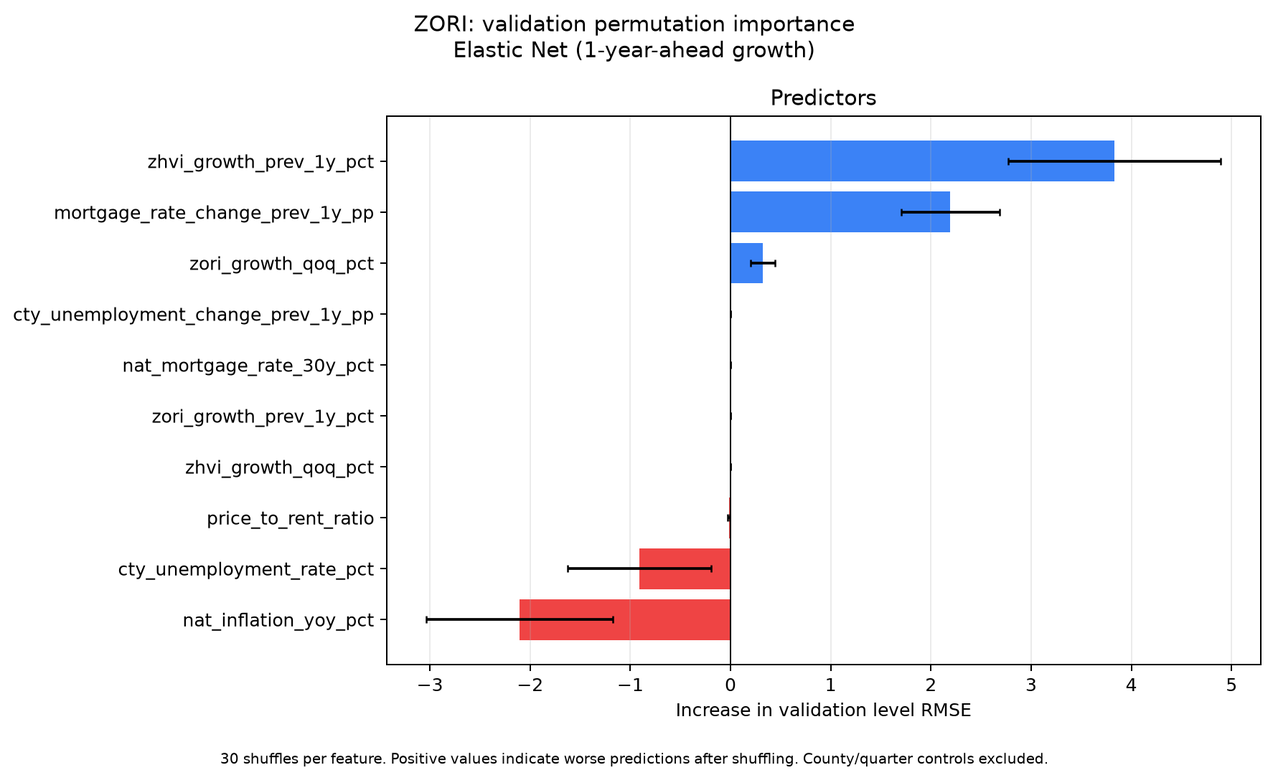
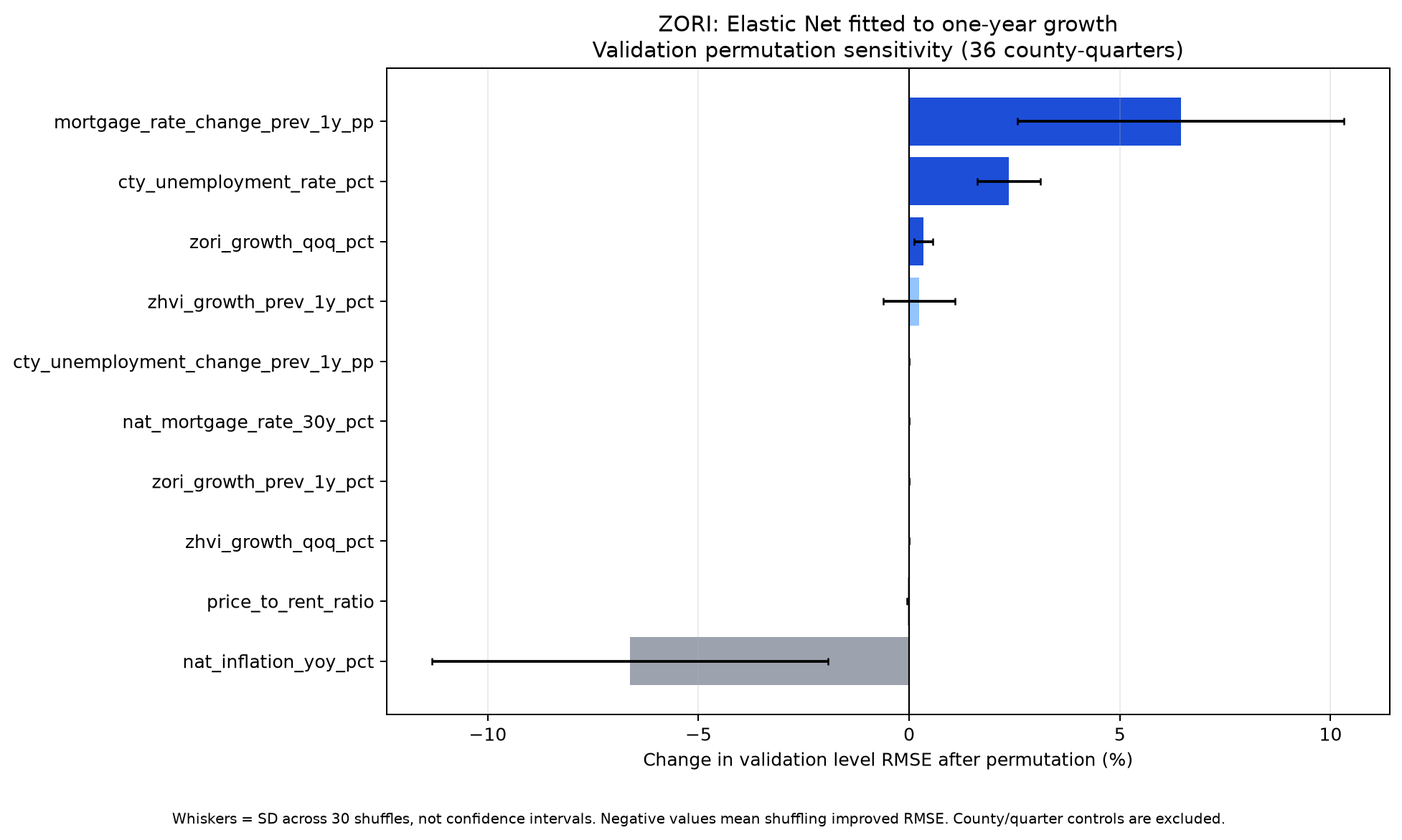
Clarify growth-target model selection and improve comparison figures

diff --git a/src/model_comparison_analysis.py b/src/model_comparison_analysis.py
@@ -2,8 +2,9 @@
 
 Run this file from the repository's ``notebooks`` directory (or run the
 companion notebook). Outputs are written to results/checkpoint3_model_compare.
-The final test period is used only after model specifications are selected on
-the 2021 validation period.
+Model specifications are selected on the 2021 validation period. The explicit
+growth-only eligibility rule was documented after earlier test results were
+seen, so the existing test scores are descriptive for that revised rule.
 """
 
 from pathlib import Path
@@ -92,6 +93,13 @@ MODEL_ORDER = [
     "Ordinary Linear Regression", "LASSO", "Elastic Net", "Ridge", "XGBoost",
     "ARIMA", "ARIMAX",
 ]
+
+# The project's forecasting question is about one-year growth. Direct-level
+# fits remain diagnostic comparisons, but only growth-fitted pooled models
+# are eligible for the tentative model choice. Because this policy was
+# formalized after inspecting the prior comparison, treat test scores as
+# descriptive rather than a pristine evaluation of the revised selection rule.
+ELIGIBLE_FIT_TARGET = GROWTH_FIT
 
 REGRESSION_CANDIDATES = {
     "Ordinary Linear Regression": [LinearRegression()],
@@ -450,18 +458,49 @@ validation_chosen = validation_comparison.sort_values(["RMSE", "MAE"]).drop_dupl
 )
 validation_chosen.to_csv(RESULTS_DIR / "validation_model_comparison.csv", index=False)
 
-# Best model per target and metric is shown separately. RMSE is the predeclared
-# primary selection metric; MAE and R² are comparative diagnostics.
+# Keep unrestricted winners as a diagnostic. The published tentative choice is
+# selected among models fitted to the actual project target: one-year growth.
 winner_rows = []
+all_candidate_winner_rows = []
 for target_name in TARGETS:
-    subset = validation_chosen[validation_chosen["target"].eq(target_name)].copy()
+    all_candidates = validation_chosen[validation_chosen["target"].eq(target_name)]
+    eligible = all_candidates[all_candidates["fit_target"].eq(ELIGIBLE_FIT_TARGET)]
     for metric, direction in [("RMSE", "min"), ("MAE", "min"), ("R2", "max")]:
-        selected = subset.sort_values(metric, ascending=(direction == "min")).iloc[0]
-        winner_rows.append({"target": target_name, "metric": metric,
-                            "winning_model": selected["model"], "fit_target": selected["fit_target"],
-                            "quarter_terms": selected["quarter_terms"], "value": selected[metric]})
+        for subset, output in [(eligible, winner_rows), (all_candidates, all_candidate_winner_rows)]:
+            selected = subset.sort_values(metric, ascending=(direction == "min")).iloc[0]
+            output.append({"target": target_name, "metric": metric,
+                           "winning_model": selected["model"], "fit_target": selected["fit_target"],
+                           "quarter_terms": selected["quarter_terms"], "value": selected[metric]})
 best_by_metric = pd.DataFrame(winner_rows)
 best_by_metric.to_csv(RESULTS_DIR / "validation_metric_winners.csv", index=False)
+pd.DataFrame(all_candidate_winner_rows).to_csv(
+    RESULTS_DIR / "validation_metric_winners_all_candidates.csv", index=False
+)
+
+# Paired within-family comparison prevents a cross-family average from hiding
+# the ZHVI exception, where some direct-level fits win in validation.
+paired_rows = []
+for target_name in TARGETS:
+    for family in ["Mean baseline"] + PREDICTOR_MODELS:
+        growth_name = display_name(family, GROWTH_FIT)
+        level_name = display_name(family, LEVEL_FIT)
+        growth = validation_chosen[
+            validation_chosen["target"].eq(target_name)
+            & validation_chosen["model"].eq(growth_name)
+            & validation_chosen["fit_target"].eq(GROWTH_FIT)
+        ].iloc[0]
+        level = validation_chosen[
+            validation_chosen["target"].eq(target_name)
+            & validation_chosen["model"].eq(level_name)
+            & validation_chosen["fit_target"].eq(LEVEL_FIT)
+        ].iloc[0]
+        paired_rows.append({
+            "target": target_name, "family": family,
+            "growth_fit_validation_RMSE": growth["RMSE"],
+            "level_fit_validation_RMSE": level["RMSE"],
+            "lower_validation_RMSE": "Growth fit" if growth["RMSE"] < level["RMSE"] else "Level fit",
+        })
+pd.DataFrame(paired_rows).to_csv(RESULTS_DIR / "fit_target_paired_validation_comparison.csv", index=False)
 
 
 # -----------------------------------------------------------------------------
@@ -642,23 +681,61 @@ metric_specs = [
     ("R2", "Validation R² (higher is better)", "validation_r2_model_comparison.png"),
 ]
 for metric, ylabel, filename in metric_specs:
-    fig, axes = plt.subplots(1, 2, figsize=(21, 7), sharey=False)
+    # Stack targets vertically: their native units and scales differ greatly.
+    fig, axes = plt.subplots(2, 1, figsize=(19, 14), sharex=False, sharey=False)
     for ax, target_name in zip(axes, TARGETS):
         rows = validation_chosen[validation_chosen["target"].eq(target_name)].copy()
         rows["order"] = rows["model"].map({name: i for i, name in enumerate(MODEL_ORDER)})
         rows = rows.sort_values(["order", "fit_target"])
         labels = rows["chart_label"].tolist()
-        color_map = plt.cm.tab20(np.linspace(0, 1, max(1, len(rows))))
-        ax.bar(np.arange(len(rows)), rows[metric], color=color_map)
-        ax.set_xticks(np.arange(len(rows)), labels, rotation=65, ha="right", fontsize=8)
-        ax.set_title(target_name)
-        ax.set_ylabel(ylabel)
+        selected = best_by_metric[
+            best_by_metric["target"].eq(target_name)
+            & best_by_metric["metric"].eq(metric)
+        ].iloc[0]
+        is_winner = (
+            rows["model"].eq(selected["winning_model"])
+            & rows["fit_target"].eq(selected["fit_target"])
+        ).to_numpy()
+        colors = [
+            "#d97706" if winner else
+            "#5b8fb9" if fit == GROWTH_FIT else
+            "#a9b7c6" if model in ["ARIMA", "ARIMAX"] else "#d3dce5"
+            for winner, fit, model in zip(is_winner, rows["fit_target"], rows["model"])
+        ]
+        bars = ax.bar(np.arange(len(rows)), rows[metric], color=colors,
+                      edgecolor=["#78350f" if winner else "none" for winner in is_winner],
+                      linewidth=1.5)
+        values = [f"{value:,.3f}" if metric == "R2" else f"{value:,.0f}" if target_name == "ZHVI"
+                  else f"{value:,.1f}" for value in rows[metric]]
+        annotations = ax.bar_label(bars, labels=values, padding=3, rotation=90, fontsize=7)
+        for label, winner, bar, value_text in zip(annotations, is_winner, bars, values):
+            if bar.get_height() < 0:
+                # The top of a negative bar is the zero line. Put its value
+                # above that line, as with the positive bars.
+                label.set_text("")
+                ax.annotate(value_text,
+                            (bar.get_x() + bar.get_width() / 2, 0),
+                            xytext=(0, 4), textcoords="offset points",
+                            ha="center", va="bottom", rotation=90, fontsize=7)
+            if winner:
+                label.set_fontweight("bold")
+                ax.text(bar.get_x() + bar.get_width() / 2, bar.get_height() * 0.6,
+                        "*", ha="center", va="center", color="white",
+                        fontsize=20, fontweight="bold")
+        ax.set_xticks(np.arange(len(rows)), labels, rotation=55, ha="right", fontsize=8)
+        unit = "USD" if target_name == "ZHVI" else "USD/month"
+        ax.set_title(f"{target_name} ({unit})" if metric != "R2" else target_name)
+        ax.set_ylabel(ylabel + (f" [{unit}]" if metric != "R2" else ""))
         ax.grid(axis="y", alpha=0.25)
         if metric == "R2":
             ax.axhline(0, color="black", linewidth=0.8)
+        bottom, top = ax.get_ylim()
+        ax.set_ylim(bottom - (top - bottom) * 0.04, top + (top - bottom) * 0.16)
     fig.suptitle(f"Validation model comparison by {metric}", fontsize=15)
-    fig.text(0.5, 0.015, "All methods are scored on the original t+4 Zillow level; growth-fit models are converted to levels.", ha="center", fontsize=9)
-    fig.tight_layout(rect=(0, 0.06, 1, 0.94))
+    fig.text(0.5, 0.008,
+             "Bold * marks the selected growth-fit winner. Blue = growth fit; pale gray = direct level fit; slate = ARIMA family. All bars are scored on the original t+4 Zillow level.",
+             ha="center", fontsize=9)
+    fig.tight_layout(rect=(0, 0.04, 1, 0.96), h_pad=3.5)
     fig.savefig(RESULTS_DIR / filename, dpi=180, bbox_inches="tight")
     plt.close(fig)
 
@@ -863,15 +940,16 @@ for target_name in TARGETS:
 # -----------------------------------------------------------------------------
 # 9. Model-agnostic permutation importance for each target's best pooled model
 # -----------------------------------------------------------------------------
-# Model ranking is based on validation RMSE. ARIMA-family methods and mean
-# baselines have no shared numeric feature set, so we identify the best pooled
-# feature-based winner separately. Importance is descriptive: the same small
-# validation year is used for model selection, so rankings may be unstable.
+# Interpret the growth-target winners only. Permutations preserve the panel:
+# national predictors move as entire quarter blocks; county predictors are
+# shuffled among counties within each quarter. The 36 validation rows make
+# these exploratory sensitivity measures, not significance tests.
 importance_rows = []
 importance_model_rows = []
 for target_name in TARGETS:
     candidate = validation_chosen[
         validation_chosen["target"].eq(target_name)
+        & validation_chosen["fit_target"].eq(ELIGIBLE_FIT_TARGET)
         & validation_chosen["model"].isin(PREDICTOR_MODELS)
     ].sort_values(["RMSE", "MAE"]).iloc[0]
     label = candidate["model"]
@@ -898,14 +976,32 @@ for target_name in TARGETS:
         return raw
 
     unpermuted_rmse = score(actual_level, level_forecast(validation))["RMSE"]
-    for variable in numeric_features:
+    for variable_index, variable in enumerate(numeric_features):
         changes = []
+        quarter_shared = validation.groupby(["year", "quarter"])[variable].nunique(dropna=False).max() == 1
         for repeat in range(30):
-            # Shuffle only one numeric predictor. County/quarter indicators and
-            # all other predictors stay fixed. The seed makes plots reproducible.
+            # Shuffle one feature without inventing different national values
+            # for counties in the same quarter. County/quarter controls stay fixed.
             changed = validation.copy()
-            random = np.random.default_rng(2026 + repeat)
-            changed[variable] = random.permutation(changed[variable].to_numpy())
+            random = np.random.default_rng(2026 + 1000 * variable_index + repeat)
+            if quarter_shared:
+                quarter_values = validation.drop_duplicates(["year", "quarter"])[
+                    ["year", "quarter", variable]
+                ]
+                shuffled = random.permutation(quarter_values[variable].to_numpy())
+                value_by_quarter = {
+                    (int(y), int(q)): value
+                    for y, q, value in zip(quarter_values["year"], quarter_values["quarter"], shuffled)
+                }
+                changed[variable] = [
+                    value_by_quarter[(int(y), int(q))]
+                    for y, q in zip(changed["year"], changed["quarter"])
+                ]
+            else:
+                for _, quarter_rows in changed.groupby(["year", "quarter"], sort=False):
+                    changed.loc[quarter_rows.index, variable] = random.permutation(
+                        quarter_rows[variable].to_numpy()
+                    )
             shuffled_rmse = score(actual_level, level_forecast(changed))["RMSE"]
             changes.append(shuffled_rmse - unpermuted_rmse)
         importance_rows.append({
@@ -913,43 +1009,40 @@ for target_name in TARGETS:
             "variable": variable,
             "delta_rmse_mean": float(np.mean(changes)),
             "delta_rmse_sd": float(np.std(changes, ddof=1)),
+            "delta_rmse_pct_mean": float(100 * np.mean(changes) / unpermuted_rmse),
+            "delta_rmse_pct_sd": float(100 * np.std(changes, ddof=1) / unpermuted_rmse),
+            "permutation_rule": "whole quarter blocks" if quarter_shared else "across counties within quarter",
             "unpermuted_validation_rmse": unpermuted_rmse,
         })
     importance_model_rows.append({
         "target": target_name, "model": label, "fit_target": fit_target,
         "quarter_terms": candidate["quarter_terms"],
         "validation_RMSE_level": candidate["RMSE"],
-        "explanation": "Best predictor-based pooled model by validation RMSE; 30-repeat permutation importance on validation rows.",
+        "explanation": "Growth-fitted winner by validation level RMSE; 30 panel-preserving permutations per feature on 36 validation rows.",
     })
 
 importance = pd.DataFrame(importance_rows)
 importance.to_csv(RESULTS_DIR / "winning_model_feature_importance.csv", index=False)
 pd.DataFrame(importance_model_rows).to_csv(RESULTS_DIR / "winning_model_feature_importance_notes.csv", index=False)
 for target_name in TARGETS:
-    rows = importance[importance["target"].eq(target_name)].sort_values("delta_rmse_mean")
-    current_level = TARGETS[target_name]["level"]
-    if current_level in rows["variable"].values:
-        # The current price/rent level dominates a direct level fit. Give it a
-        # separate axis so smaller economic effects remain readable.
-        fig, axes = plt.subplots(1, 2, figsize=(16, 6), gridspec_kw={"width_ratios": [1, 2]})
-        groups = [rows[rows["variable"].eq(current_level)],
-                  rows[~rows["variable"].eq(current_level)]]
-        titles = ["Current level", "Other predictors (expanded scale)"]
-    else:
-        fig, axis = plt.subplots(figsize=(10, 6))
-        axes, groups, titles = [axis], [rows], ["Predictors"]
-    for ax, group, title in zip(axes, groups, titles):
-        colors = ["#3b82f6" if value >= 0 else "#ef4444" for value in group["delta_rmse_mean"]]
-        ax.barh(group["variable"], group["delta_rmse_mean"],
-                xerr=group["delta_rmse_sd"], color=colors, capsize=2)
-        ax.axvline(0, color="black", linewidth=0.8)
-        ax.set_xlabel("Increase in validation level RMSE")
-        ax.set_title(title)
-        ax.grid(axis="x", alpha=0.25)
+    rows = importance[importance["target"].eq(target_name)].sort_values("delta_rmse_pct_mean")
+    fig, ax = plt.subplots(figsize=(11, 6.5))
+    top_three = set(rows.nlargest(3, "delta_rmse_pct_mean")["variable"])
+    colors = ["#1d4ed8" if variable in top_three and value > 0 else
+              "#93c5fd" if value > 0 else "#9ca3af"
+              for variable, value in zip(rows["variable"], rows["delta_rmse_pct_mean"])]
+    ax.barh(rows["variable"], rows["delta_rmse_pct_mean"],
+            xerr=rows["delta_rmse_pct_sd"], color=colors, capsize=2)
+    ax.axvline(0, color="black", linewidth=0.9)
+    ax.set_xlabel("Change in validation level RMSE after permutation (%)")
+    ax.grid(axis="x", alpha=0.25)
     selected_note = next(item for item in importance_model_rows if item["target"] == target_name)
-    fig.suptitle(f"{target_name}: validation permutation importance\n{selected_note['model']} ({selected_note['fit_target']})")
-    fig.text(0.5, 0.01, "30 shuffles per feature. Positive values indicate worse predictions after shuffling. County/quarter controls excluded.", ha="center", fontsize=8)
-    fig.tight_layout(rect=(0, 0.04, 1, 1))
+    ax.set_title(f"{target_name}: {selected_note['model']} fitted to one-year growth\n"
+                 "Validation permutation sensitivity (36 county-quarters)")
+    fig.text(0.5, 0.01,
+             "Whiskers = SD across 30 shuffles, not confidence intervals. Negative values mean shuffling improved RMSE. County/quarter controls are excluded.",
+             ha="center", fontsize=8)
+    fig.tight_layout(rect=(0, 0.05, 1, 1))
     fig.savefig(RESULTS_DIR / f"{target_name.lower()}_winning_model_feature_importance.png", dpi=180, bbox_inches="tight")
     plt.close(fig)
 

diff --git a/docs/checkpoint3_model_compare.md b/docs/checkpoint3_model_compare.md
@@ -1,5 +1,9 @@
 # Checkpoint 3 Model Comparison
 
+## Research target and model-selection rule
+
+The project's primary prediction target is **one-year-ahead ZHVI and ZORI growth**, measured as `100 × [level(t+4) / level(t) − 1]`. Therefore, only models **fitted to one-year-ahead growth** are eligible to be selected as the tentative forecasting models. Among those eligible models, we select the specification with the lowest validation RMSE after converting predicted growth to the original t+4 level; validation MAE breaks any tie, and R² is reported as a supporting metric. The level-scale score reflects the downstream rent-versus-buy calculator's need for future dollar values; it does not change what the eligible models are trained to predict. Models fitted directly to future levels, including ARIMA and ARIMAX, remain in the comparison as **reference experiments**, not candidates for the project's growth-target model choice. This rule follows the stated research question rather than any claim that direct-level fitting always performs worse.
+
 ## What each model fits
 
 All eight model families forecast a Zillow outcome four quarters after the prediction origin. The six pooled, non-time-series families are each evaluated with **two different fitting targets**. The first fits one-year growth and converts its prediction back to a future level; the second fits the future original level directly. ARIMA and ARIMAX fit the original level series. The mean baselines are named separately because their fitting targets differ.
@@ -19,7 +23,7 @@ For a growth-fitted model, `predicted level(t+4) = observed level(t) × [1 + pre
 
 ## Comparison design
 
-The nine-county panel uses the project's existing chronological split: train origins **2015Q1–2019Q4** (180 county-quarters), validation origins **2021Q1–2021Q4** (36), and final test origins **2023Q1–2024Q4** (72). The intervening years are excluded as scored origins to separate one-year target windows. Pooled model hyperparameters and the choice between no quarter terms and Q2–Q4 indicators (Q1 reference) are selected on validation only. The primary selection metric is **validation RMSE on the original t+4 Zillow level**, with MAE as a tie-breaker. MAE and R² are shown as additional validation criteria; the test period is an out-of-period check, not a selection set. Pooled test fits use training plus validation observations after specifications are frozen.
+The nine-county panel uses the project's existing chronological split: train origins **2015Q1–2019Q4** (180 county-quarters), validation origins **2021Q1–2021Q4** (36), and test origins **2023Q1–2024Q4** (72). The intervening years are excluded as scored origins to separate one-year target windows. Pooled model hyperparameters and the choice between no quarter terms and Q2–Q4 indicators (Q1 reference) are selected on validation only. The growth-target eligibility and level-scale validation scoring rules are stated above. Pooled test fits use training plus validation observations after specifications are frozen. **Although the growth target was part of the project's original research question, the explicit growth-only candidate rule was formalized after the team had seen test results from the earlier comparison; the existing test is therefore descriptive and is no longer a pristine holdout for evaluating this revised selection policy.**
 
 Every predictor-based pooled model uses the same predeclared ten origin-quarter features: `zhvi_growth_qoq_pct`, `zhvi_growth_prev_1y_pct`, `zori_growth_qoq_pct`, `zori_growth_prev_1y_pct`, `nat_mortgage_rate_30y_pct`, `mortgage_rate_change_prev_1y_pp`, `nat_inflation_yoy_pct`, `cty_unemployment_rate_pct`, `cty_unemployment_change_prev_1y_pp`, and `price_to_rent_ratio`. These cover short and annual housing momentum, mortgage conditions and inflation, local labor conditions, and a housing affordability ratio. County fixed effects are included in each pooled fit. Direct-level predictor models additionally receive the **current level of the same Zillow series**; this level is also used to convert growth predictions to future levels, so both pathways are anchored to information known at the origin. Mean baselines omit numeric features but retain county effects. Median imputation and scaling are fit on the fitting partition only. The fixed feature list was selected by domain rationale before this expanded comparison, not by screening the test set; the validation selection still has uncertainty because it covers only four quarters.
 
@@ -27,53 +31,53 @@ ARIMA and ARIMAX forecast each county's level history separately to avoid treati
 
 For Elastic Net, `l1_ratio=0.75` gives the L1 (LASSO) penalty a mixing weight of 0.75 and the L2 (Ridge) penalty a weight of 0.25. These are penalty weights, not literal shares of a predictor's influence or of total realized shrinkage.
 
+### Does fitting levels work worse than fitting growth?
+
+Not uniformly on validation. Comparing each of the five predictor-based pooled families with itself, the growth-fitted version has lower validation level RMSE in **2/5 ZHVI** and **5/5 ZORI** comparisons. For ZHVI, direct-level LASSO reaches $5,180 validation RMSE, below growth-fitted Ridge's $5,989. Growth fits have lower **test** RMSE in 5/5 families for each target, but that observation cannot serve as an independent justification for a post-test restriction. We exclude direct-level fits from the tentative choice **because the intended modeling target is growth**, not because they universally underperform. They remain in the charts as diagnostics. The paired validation values are saved in [`fit_target_paired_validation_comparison.csv`](../results/checkpoint3_model_compare/fit_target_paired_validation_comparison.csv).
+
 ## Validation selection
 
-| Target | Metric | Validation winner | Fitting target | Quarter terms | Value |
-|---|---|---|---|---|---:|
-| ZHVI | RMSE | LASSO | Original level at t+4 | Yes | $5,180.00 |
-| ZHVI | MAE | LASSO | Original level at t+4 | Yes | $3,908.33 |
-| ZHVI | R² | LASSO | Original level at t+4 | Yes | 0.9933 |
-| ZORI | RMSE | Elastic Net | One-year-ahead growth | No | $35.30/month |
-| ZORI | MAE | Elastic Net | One-year-ahead growth | No | $29.99/month |
-| ZORI | R² | Elastic Net | One-year-ahead growth | No | 0.9711 |
+| Target | Tentative model | Quarter terms | Validation level MAE | Validation RMSE | Validation R² | Why |
+|---|---|---|---:|---:|---:|---|
+| ZHVI | Ridge (growth fit; alpha=100) | Yes | $4,464.04 | $5,988.60 | 0.9910 | Lowest validation level RMSE among models fitted to the project's growth target. |
+| ZORI | Elastic Net (growth fit; alpha=0.1, l1_ratio=0.75) | No | $29.99/month | $35.30/month | 0.9711 | Lowest validation level RMSE among models fitted to the project's growth target. |
 
-The **tentative selections under the declared validation rule** are direct-level LASSO for ZHVI and growth-fitted Elastic Net for ZORI. For ZHVI, this updates PR #15's tentative Ridge choice because direct-level models were absent from that comparison. The detailed validation results, selected seasonal versions, and metric winners are in [`validation_model_comparison.csv`](../results/checkpoint3_model_compare/validation_model_comparison.csv), [`validation_seasonality_comparison.csv`](../results/checkpoint3_model_compare/validation_seasonality_comparison.csv), and [`validation_metric_winners.csv`](../results/checkpoint3_model_compare/validation_metric_winners.csv).
+For each target, the same eligible model also has the lowest validation MAE and highest R². The tentative choices remain **ZHVI Ridge and ZORI Elastic Net** under the growth-target rule. The unrestricted all-candidate winner is different for ZHVI: direct-level LASSO. The detailed validation results and metric winners are in [`validation_model_comparison.csv`](../results/checkpoint3_model_compare/validation_model_comparison.csv), [`validation_seasonality_comparison.csv`](../results/checkpoint3_model_compare/validation_seasonality_comparison.csv), [`validation_metric_winners.csv`](../results/checkpoint3_model_compare/validation_metric_winners.csv), and [`validation_metric_winners_all_candidates.csv`](../results/checkpoint3_model_compare/validation_metric_winners_all_candidates.csv).
 
 ![Validation RMSE by model](../results/checkpoint3_model_compare/validation_rmse_model_comparison.png)
 
-*Figure 1. Validation root mean squared error (RMSE) on the **original level at t+4**: USD for ZHVI and USD/month for ZORI. Each x-axis label gives model, fitted target (growth or level), and selected quarter-term setting. Lower bars are better. LASSO fitted to levels leads ZHVI; Elastic Net fitted to growth leads ZORI. The large mean-level and direct-level XGBoost errors extend the vertical scale, so use the table above for close comparisons.*
+*Figure 1. Top: ZHVI validation RMSE in USD; bottom: ZORI validation RMSE in USD/month. Both score the **original level at t+4**; growth-fitted predictions are converted to that level. Each bar has its numerical value above it. The orange bar with a bold **\*** marks the selected model among **growth-fitted** candidates: ZHVI Ridge and ZORI Elastic Net. Blue bars are other growth fits; pale gray bars are direct-level fits; slate bars are ARIMA/ARIMAX. Direct-level ZHVI LASSO has a smaller unrestricted RMSE than starred Ridge but is ineligible under the growth-target rule.*
 
 ![Validation MAE by model](../results/checkpoint3_model_compare/validation_mae_model_comparison.png)
 
-*Figure 2. Validation mean absolute error (MAE) on the **same original t+4 level scale**. Lower is better. The x-axis follows the model order in the first table, with separate growth-fit and level-fit bars for each pooled family. Both targets retain the same winners as RMSE.*
+*Figure 2. Top: ZHVI validation MAE in USD; bottom: ZORI validation MAE in USD/month, both on the **original t+4 level scale**. Lower is better. Values appear above each bar; the orange bar and bold **\*** identify the eligible growth-fitted MAE winner. Model labels also give fitting target and quarter-term choice. Unrestricted direct-level results remain visible for comparison.*
 
 ![Validation R-squared by model](../results/checkpoint3_model_compare/validation_r2_model_comparison.png)
 
-*Figure 3. Validation out-of-sample R² on the **original t+4 level scale**. Higher is better; zero is the mean-observed-level reference on this validation set, and negative bars are worse than that reference. Direct-level LASSO is highest for ZHVI; growth-fitted Elastic Net is highest for ZORI.*
+*Figure 3. Top: ZHVI validation R²; bottom: ZORI validation R², both on the **original t+4 level scale**. Higher is better; zero is the validation-set observed-mean reference. Values appear at each bar, and the orange bar with bold **\*** identifies the eligible growth-fitted R² winner. Direct-level ZHVI LASSO has the highest unrestricted R² but is not the project's growth-target choice.*
 
 ## Interpreting the winning models
 
-The following is **validation permutation importance**, not SHAP or causal attribution. Each feature is shuffled 30 times across validation county-quarters while the fitted model and other columns stay fixed. The bar reports the average increase in level-scale validation RMSE; a positive value means shuffling worsens the forecast. Correlated predictors can share or mask importance, and these rankings are unstable with only 36 validation rows. County and quarter indicators are controls and are not included in these plots.
+The charts below show **permutation sensitivity** for the two growth-fitted tentative models, not SHAP values, causal effects, or significance tests. A national feature is shuffled as a whole quarter block so it remains identical across counties in that quarter; a county-level feature is shuffled across counties **within** each quarter. This avoids creating impossible county-specific national rates. Each feature is shuffled 30 times while the fitted model and other columns stay fixed. Bars show the mean percentage change in validation **level-scale** RMSE relative to the unshuffled model; whiskers show the standard deviation across random shuffles, **not a confidence interval**. Positive values mean shuffling worsens validation forecasts; negative values mean the shuffled values happened to improve RMSE. Correlated predictors may share or mask importance, and rankings from just 36 validation rows can be unstable. County and quarter indicators are held fixed and omitted from these charts.
 
-![ZHVI LASSO feature importance](../results/checkpoint3_model_compare/zhvi_winning_model_feature_importance.png)
+![ZHVI Ridge permutation sensitivity](../results/checkpoint3_model_compare/zhvi_winning_model_feature_importance.png)
 
-*Figure 4. ZHVI winner: direct-level LASSO. The current ZHVI level overwhelmingly dominates prediction. It uses a separate horizontal scale on the left; the right panel expands the smaller remaining effects. Among those, price-to-rent ratio and the prior-year mortgage-rate change have the largest positive permutation effects. The two panels have different x-axis ranges.*
+*Figure 4. ZHVI tentative model: growth-fitted Ridge. The horizontal axis is percentage change in validation original-level RMSE after panel-preserving permutation; darker blue marks the three largest positive sensitivity values. County unemployment change (+7.4%), county unemployment rate (+5.7%), and mortgage-rate change (+4.0%) rank highest here. The plot excludes current ZHVI level because Ridge fits growth, then uses the observed origin level only to convert its growth forecast to a future level. Read bars as predictive sensitivity on this validation sample, not coefficient direction or causal influence.*
 
 ![ZORI Elastic Net feature importance](../results/checkpoint3_model_compare/zori_winning_model_feature_importance.png)
 
-*Figure 5. ZORI winner: growth-fitted Elastic Net. Prior-year ZHVI growth and prior-year mortgage-rate change have the largest positive permutation effects. Zero-height bars mean shuffling did not change the fitted predictions in this validation sample, often because regularization set their coefficients to zero. The x-axis is increase in original-level RMSE, in USD/month.*
+*Figure 5. ZORI tentative model: growth-fitted Elastic Net. The horizontal axis is percentage change in validation original-level RMSE after panel-preserving permutation. Mortgage-rate change (+6.4%) and county unemployment rate (+2.4%) show the largest positive sensitivity. Shuffling inflation improves RMSE (−6.6%), a warning that its estimated contribution may not generalize; this is not evidence of a protective causal effect. Near-zero bars can arise from small or zero fitted coefficients, redundancy among correlated inputs, or limited validation variation; they do not prove a feature is irrelevant.*
 
-The exact numerical importance values are in [`winning_model_feature_importance.csv`](../results/checkpoint3_model_compare/winning_model_feature_importance.csv). The dominance of current ZHVI for a direct-level fit is expected: it measures persistence of the level, not proof that the model explains future appreciation.
+The exact numerical sensitivity values and permutation rules are in [`winning_model_feature_importance.csv`](../results/checkpoint3_model_compare/winning_model_feature_importance.csv). A next-step robustness check would repeat these plots over multiple forward validation periods; the current four-quarter validation year cannot establish stable feature rankings.
 
 ## Locked test check and R²
 
-| Target | Validation-selected model | Test level MAE | Test level RMSE | Test level R² | Comparable growth-fit reference |
-|---|---|---:|---:|---:|---|
-| ZHVI | Direct-level LASSO | $14,538.32 | $18,072.77 | 0.9289 | Growth-fitted Ridge: $6,166.55 RMSE, 0.9917 R² |
-| ZORI | Growth-fitted Elastic Net | $23.32/month | $28.89/month | 0.9841 | Direct-level ARIMAX: $16.10/month RMSE, 0.9951 R² |
+| Target | **Validation-selected model** | Quarter terms | Test level MAE | Test level RMSE | Test level R² |
+|---|---|---|---:|---:|---:|
+| ZHVI | Ridge (growth fit) | Yes | $4,736.47 | $6,166.55 | 0.9917 |
+| ZORI | Elastic Net (growth fit) | No | $23.32/month | $28.89/month | 0.9841 |
 
-The 2023–2024 test reveals a material regime shift. The validation-selected direct-level ZHVI LASSO generalizes poorly relative to growth-fitted Ridge; ZORI's validation-selected Elastic Net is also outperformed by ARIMAX on test. **We do not change the selected models using test results**, because that would turn the final test into another tuning set. These results weaken any claim that a single validation year reliably identifies a deployable winner. The full locked test table is in [`metrics.csv`](../results/checkpoint3_model_compare/metrics.csv); growth-scale diagnostics are in [`one_year_ahead_growth_test_metrics.csv`](../results/checkpoint3_model_compare/one_year_ahead_growth_test_metrics.csv).
+The 2023–2024 test remains a difficult distribution-shift check. Direct-level ZHVI LASSO, the unrestricted validation winner, has $18,072.77 test RMSE versus $6,166.55 for the growth-fitted Ridge choice. ZORI Elastic Net is outperformed on test by ARIMAX ($16.10/month RMSE), but ARIMAX fits levels and is outside the growth-target selection pool. The model parameters were not retuned on the test, yet the target-eligibility policy was formalized **after these test outcomes were known**. Accordingly, these scores are descriptive comparisons, not an unbiased final assessment of that revised policy. The full test table is in [`metrics.csv`](../results/checkpoint3_model_compare/metrics.csv); growth-scale diagnostics are in [`one_year_ahead_growth_test_metrics.csv`](../results/checkpoint3_model_compare/one_year_ahead_growth_test_metrics.csv).
 
 Out-of-sample `R² = 1 − SSE/SST`, where `SSE` is the model's sum of squared forecast errors and `SST` is the sum of squared deviations of **observed outcomes in the scored split** from that split's observed mean. Thus a test level R² of `0.992` means model SSE is `0.008 × SST`, or about **99.2% lower** than the test-mean reference SSE. A test growth R² of `−0.634` means model SSE is `1.634 × SST`, or **63.4% higher** than that reference SSE. The test mean is used only to define the metric; it is not an available forecasting predictor. A high level R² can coexist with poor growth R² because stable differences between county price levels are easy to capture even when changing growth rates are not.
 
@@ -97,6 +101,6 @@ Out-of-sample `R² = 1 − SSE/SST`, where `SSE` is the model's sum of squared f
 
 ## Limits and reproduction
 
-The validation period contains just four quarters and nine counties; the post-2022 test has a different housing and interest-rate environment. The new direct-level LASSO result is especially sensitive to this shift. The test should remain untouched for any further model changes; a future project phase could add more historical validation folds or a prospective holdout. Pooled bootstrap bands reflect refit variation, while ARIMA/ARIMAX intervals are conditional on their chosen specification and, for ARIMAX, fixed future exogenous values. Neither is a guarantee of empirical 95% coverage.
+The validation period contains just four quarters and nine counties; the post-2022 test has a different housing and interest-rate environment. Direct-level LASSO's strong validation result but weak test result illustrates this instability. Because the team has already inspected the 2023–2024 results, a future unbiased performance assessment needs new prospective data or a separately designed forward validation period. Pooled bootstrap bands reflect refit variation, while ARIMA/ARIMAX intervals are conditional on their chosen specification and, for ARIMAX, fixed future exogenous values. Neither is a guarantee of empirical 95% coverage.
 
 Run [`notebooks/pooled_model_comparison_zhvi_1y.ipynb`](../notebooks/pooled_model_comparison_zhvi_1y.ipynb) or [`src/model_comparison_analysis.py`](../src/model_comparison_analysis.py) from the repository root. The script reads the existing one-year chronological splits and feature panel and writes comparison tables and figures to [`results/checkpoint3_model_compare/`](../results/checkpoint3_model_compare/). Use `python src/model_comparison_analysis.py --recompute-time-series` to refit the slower ARIMA/ARIMAX search rather than reusing the checked-in, unchanged PR #15 time-series results. Person 3's distinct time-series work remains in [`results/checkpoint3_time_series/`](../results/checkpoint3_time_series/).
